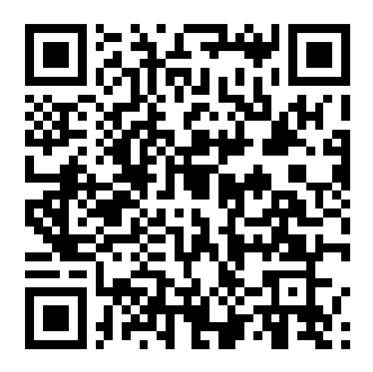
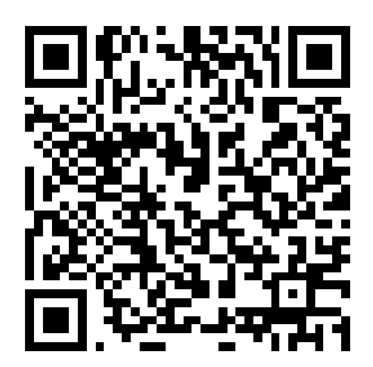
Update payment details to hadhinoushad43@okaxis and replace QR code

diff --git a/payment/qr/index.html b/payment/qr/index.html
@@ -183,13 +183,13 @@ src="https://www.facebook.com/tr?id=958547097011254&ev=PageView&noscript=1"
 <div class="scan-line absolute left-0 right-0 h-0.5 bg-secondary shadow-[0_0_8px_#10B981] z-20"></div>
 <img alt="Secure Payment QR Code" class="w-full h-full object-contain" src="./qr-code.png">
 </div>
-<a href="gpay://upi/pay?pa=hadhinoushad43-1@oksbi&amp;cu=INR&amp;pn=Hadhi&amp;am=99.00&amp;tn=Ai+Webinar" class="w-24 h-24 bg-primary text-on-primary flex flex-col items-center justify-center gap-1 rounded-xl font-label-sm hover:opacity-90 transition-all active:scale-95 shadow-lg mb-2 text-center">
+<a href="gpay://upi/pay?pa=hadhinoushad43@okaxis&amp;cu=INR&amp;pn=Hadhi&amp;am=99.00&amp;tn=Ai+Webinar" class="w-24 h-24 bg-primary text-on-primary flex flex-col items-center justify-center gap-1 rounded-xl font-label-sm hover:opacity-90 transition-all active:scale-95 shadow-lg mb-2 text-center">
     <span class="material-symbols-outlined text-[32px]">payments</span>
     <span class="leading-tight">Google<br>Pay</span>
 </a><div class="flex flex-col items-center gap-2 p-3 bg-surface-container rounded-lg border border-outline-variant w-full max-w-[240px] mb-2">
     <span class="font-label-sm text-label-sm text-on-surface-variant uppercase tracking-wider">UPI ID</span>
     <div class="flex items-center gap-2">
-        <code class="font-body-md font-semibold text-primary">hadhinoushad43-1@oksbi</code>
+        <code class="font-body-md font-semibold text-primary">hadhinoushad43@okaxis</code>
         <button id="copy-upi-btn" class="material-symbols-outlined text-secondary text-[20px] hover:text-primary transition-colors active:scale-90" title="Copy UPI ID">content_copy</button>
     </div>
 </div><div class="flex flex-col items-center gap-1 mt-2">
@@ -244,7 +244,7 @@ src="https://www.facebook.com/tr?id=958547097011254&ev=PageView&noscript=1"
         if (copyBtn) {
             copyBtn.addEventListener('click', (e) => {
                 e.stopPropagation();
-                const upiId = 'hadhinoushad43-1@oksbi';
+                const upiId = 'hadhinoushad43@okaxis';
                 navigator.clipboard.writeText(upiId).then(() => {
                     // Change icon to checkmark and color to green for 2 seconds
                     const originalText = copyBtn.textContent;
